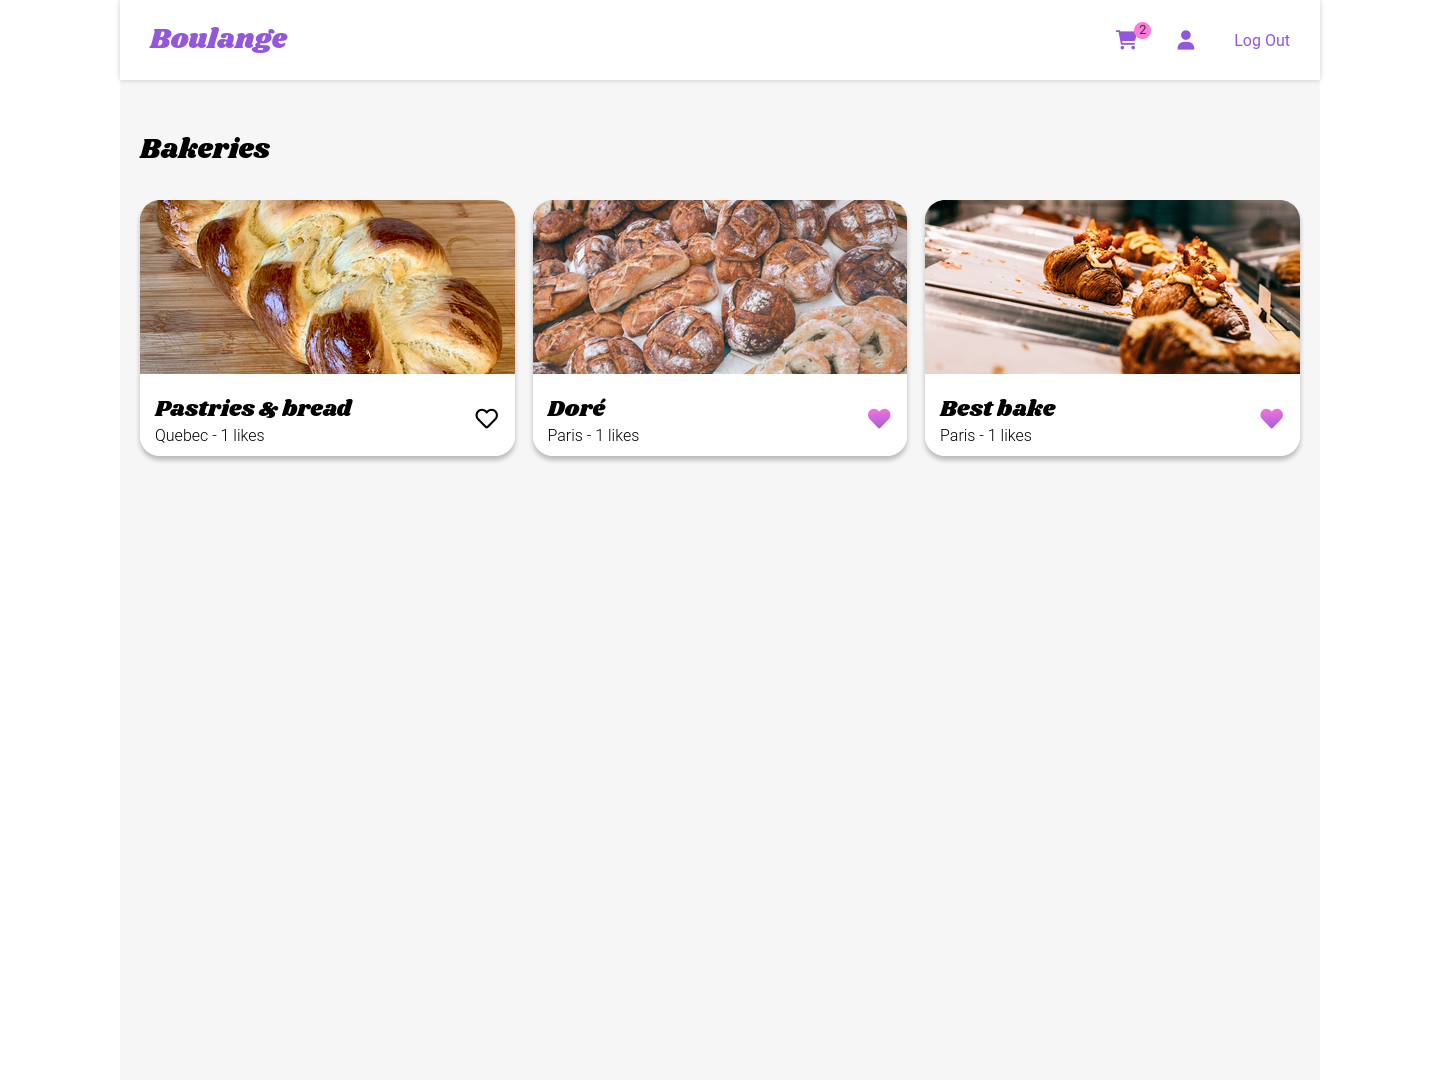
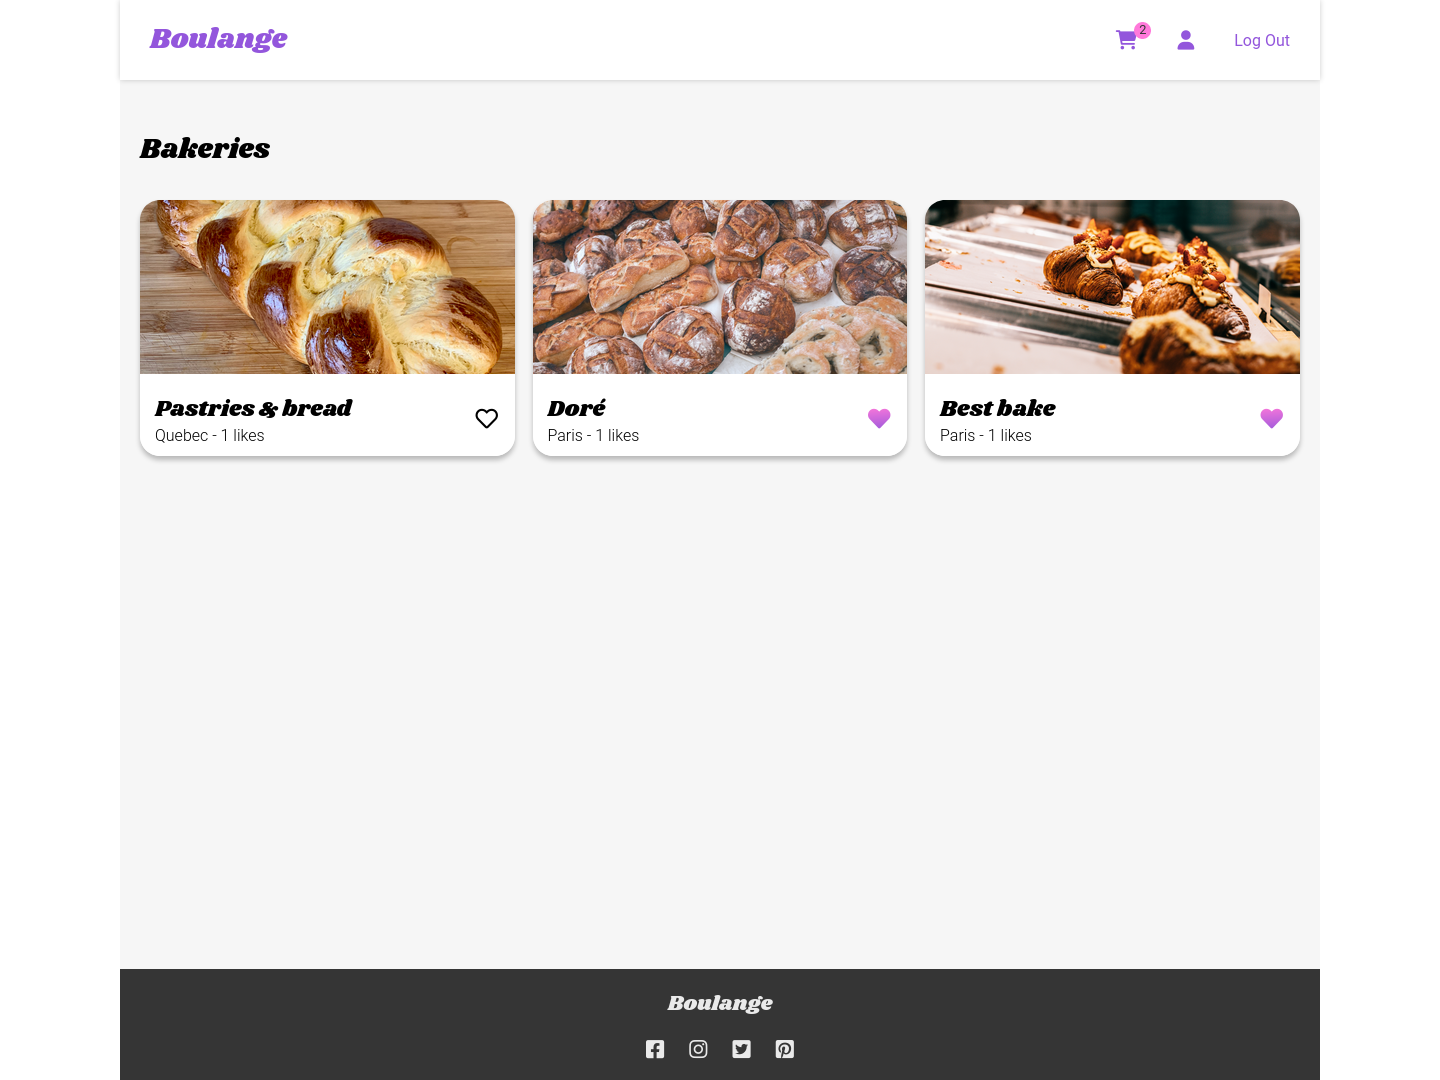
Add footer and update desktop screenshot

Changed region(s): [[0.0625, 0.8861, 0.9375, 1.0]]

diff --git a/capstone/boulange/templates/boulange/layout.html b/capstone/boulange/templates/boulange/layout.html
@@ -20,7 +20,6 @@
     <link type="text/css" href="{% static 'boulange/style.css' %}" rel="stylesheet" />
   </head>
   <body>
-    <div></div>
     <!-- Header -->
     <header class="header">
       <h1 class="header__title"><a href="{% url 'index' %}">Boulange</a></h1>
@@ -52,5 +51,23 @@
       {% block body %} {% endblock %}
       <script type="module" src="{% static 'boulange/main.js' %}"></script>
     </main>
+    <!-- Footer -->
+  <footer class="footer">
+    <div class="footer__logo">Boulange</div>
+    <ul class="footer__social">
+      <li class="footer__social-item">
+        <i class="fa-brands fa-square-facebook"></i>
+      </li>
+      <li class="footer__social-item">
+        <i class="fa-brands fa-instagram"></i>
+      </li>
+      <li class="footer__social-item">
+        <i class="fa-brands fa-square-twitter"></i>
+      </li>
+      <li class="footer__social-item">
+        <i class="fa-brands fa-square-pinterest"></i>
+      </li>
+    </ul>
+  </footer>
   </body>
 </html>

diff --git a/capstone/boulange/sass/layout/_footer.scss b/capstone/boulange/sass/layout/_footer.scss
@@ -1,27 +1,33 @@
-footer {
-    background-color: $background-color;
-    color: white;
-    padding: 25px;
-    div {
-        font-family: Shrikhand;
+.footer {
+  background-color: $background-color;
+  color: $background-light-color;
+  padding: 20px;
+  display: flex;
+  flex-direction: column;
+  align-items: center;
+  gap: 20px;
+
+  &__logo {
+    font-size: 1.3em;
+    font-family: Shrikhand;
+  }
+
+  &__social {
+    display: flex;
+    justify-content: center;
+    align-items: baseline;
+    gap: 25px;
+
+    &-item {
+      display: flex;
+      cursor: pointer;
+      user-select: none;
+      font-size: 1.3em;
+      transition: all 0.25s ease-in-out;
     }
 
-    ul {
-        padding: 0;
+    &-item:hover {
+      color: $secondaire-color;
     }
-
-    li {
-        list-style: none;
-        padding: 3px;
-    }
-
-    span {
-        width: 20px;
-        display:inline-block;
-        font-size: 0.8em;
-    }
-
-    a {
-        color: white;
-    }
+  }
 }

diff --git a/capstone/boulange/static/boulange/style.css b/capstone/boulange/static/boulange/style.css
@@ -246,28 +246,37 @@ main {
   position: relative;
 }
 
-footer {
+.footer {
   background-color: #353535;
-  color: white;
-  padding: 25px;
+  color: #eaeaea;
+  padding: 20px;
+  display: flex;
+  flex-direction: column;
+  align-items: center;
+  gap: 20px;
 }
-footer div {
+.footer__logo {
+  font-size: 1.3em;
   font-family: Shrikhand;
 }
-footer ul {
-  padding: 0;
+.footer__social {
+  display: flex;
+  justify-content: center;
+  align-items: baseline;
+  gap: 25px;
 }
-footer li {
-  list-style: none;
-  padding: 3px;
+.footer__social-item {
+  display: flex;
+  cursor: pointer;
+  -webkit-user-select: none;
+     -moz-user-select: none;
+      -ms-user-select: none;
+          user-select: none;
+  font-size: 1.3em;
+  transition: all 0.25s ease-in-out;
 }
-footer span {
-  width: 20px;
-  display: inline-block;
-  font-size: 0.8em;
-}
-footer a {
-  color: white;
+.footer__social-item:hover {
+  color: #FF79DA;
 }
 
 .grid {
